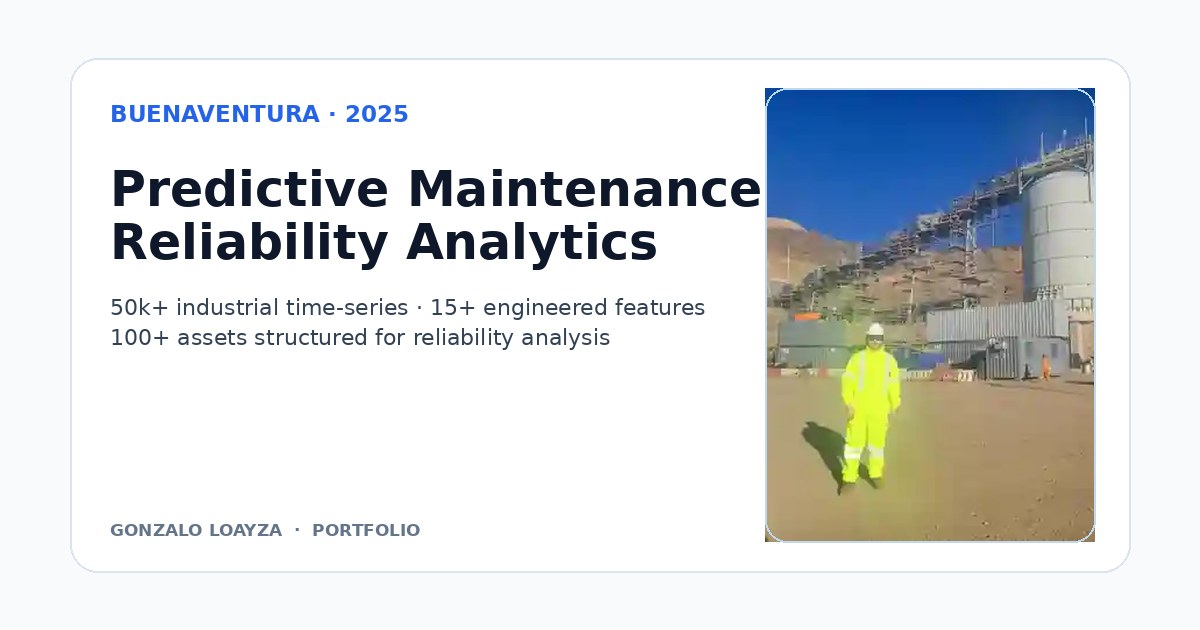
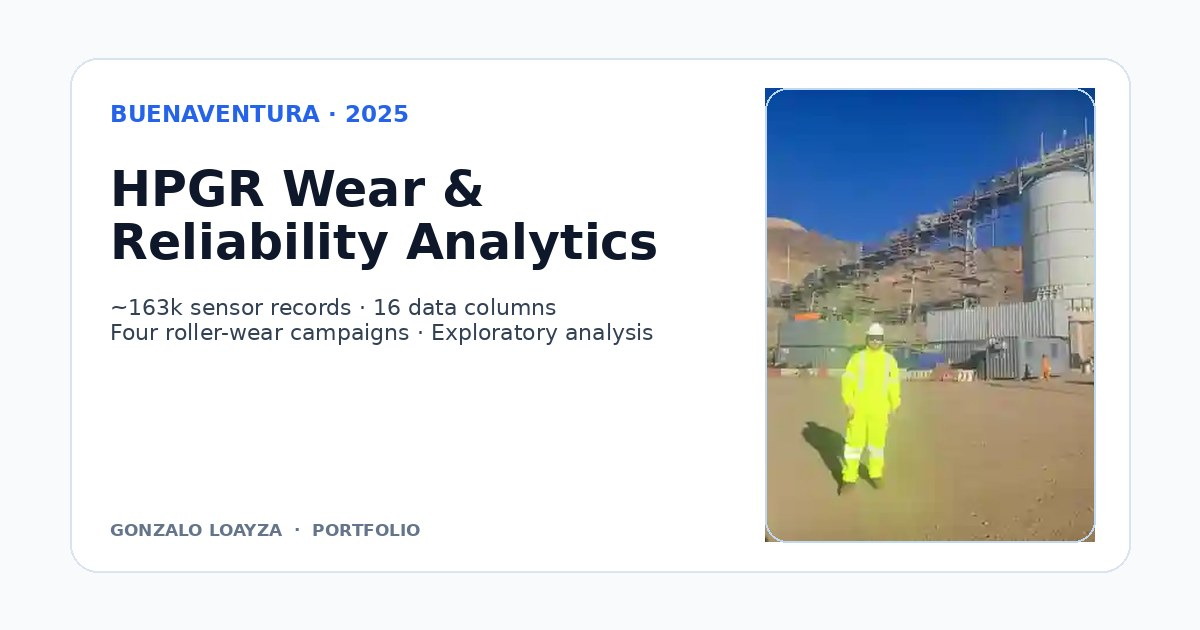
deploy: ad4174ddf86f573944c15132cf0634b0e091b5ab

Changed region(s): [[0.0925, 0.4524, 0.5858, 0.573], [0.0925, 0.2714, 0.6475, 0.3317]]

diff --git a/scripts/generate_social_previews.py b/scripts/generate_social_previews.py
@@ -78,7 +78,7 @@ def hatch():
 
 
 def predictive():
-    img, _ = base_card('BUENAVENTURA · 2025', ['Predictive Maintenance &', 'Reliability Analytics'], ['50k+ industrial time-series · 15+ engineered features', '100+ assets structured for reliability analysis'], REAL / 'buenaventura-site.webp')
+    img, _ = base_card('BUENAVENTURA · 2025', ['HPGR Wear &', 'Reliability Analytics'], ['~163k sensor records · 16 data columns', 'Four roller-wear campaigns · Exploratory analysis'], REAL / 'buenaventura-site.webp')
     save(img, 'predictive-maintenance-social.jpg')
 
 
@@ -102,3 +102,4 @@ def wildfire():
 if __name__ == '__main__':
     portfolio(); hatch(); predictive(); operational(); trainops(); wildfire()
     print(f'Generated social previews in {OUT}')
+
